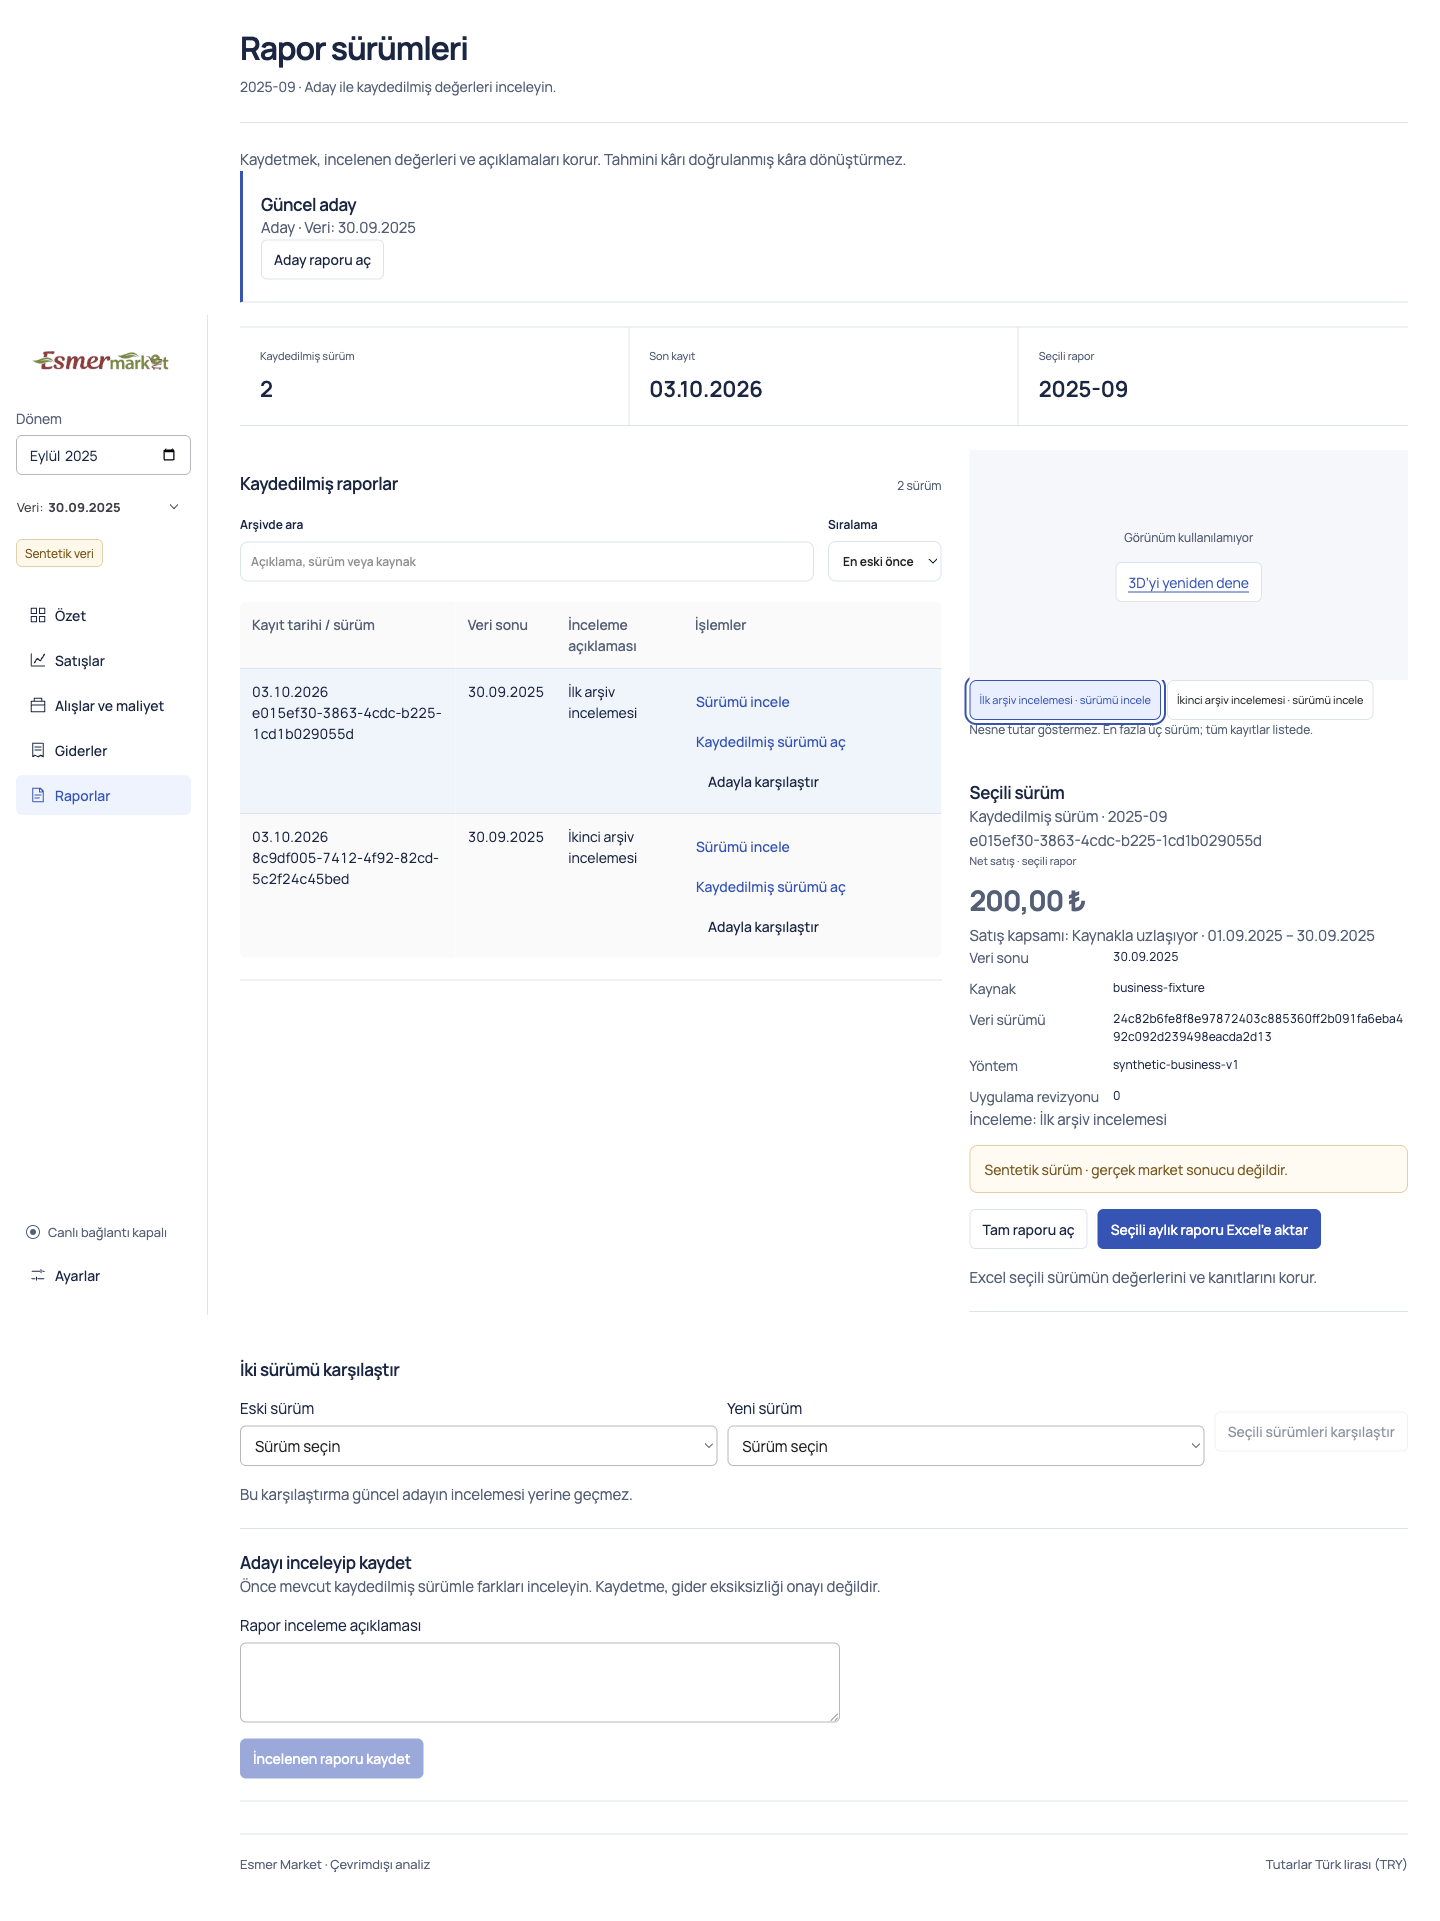
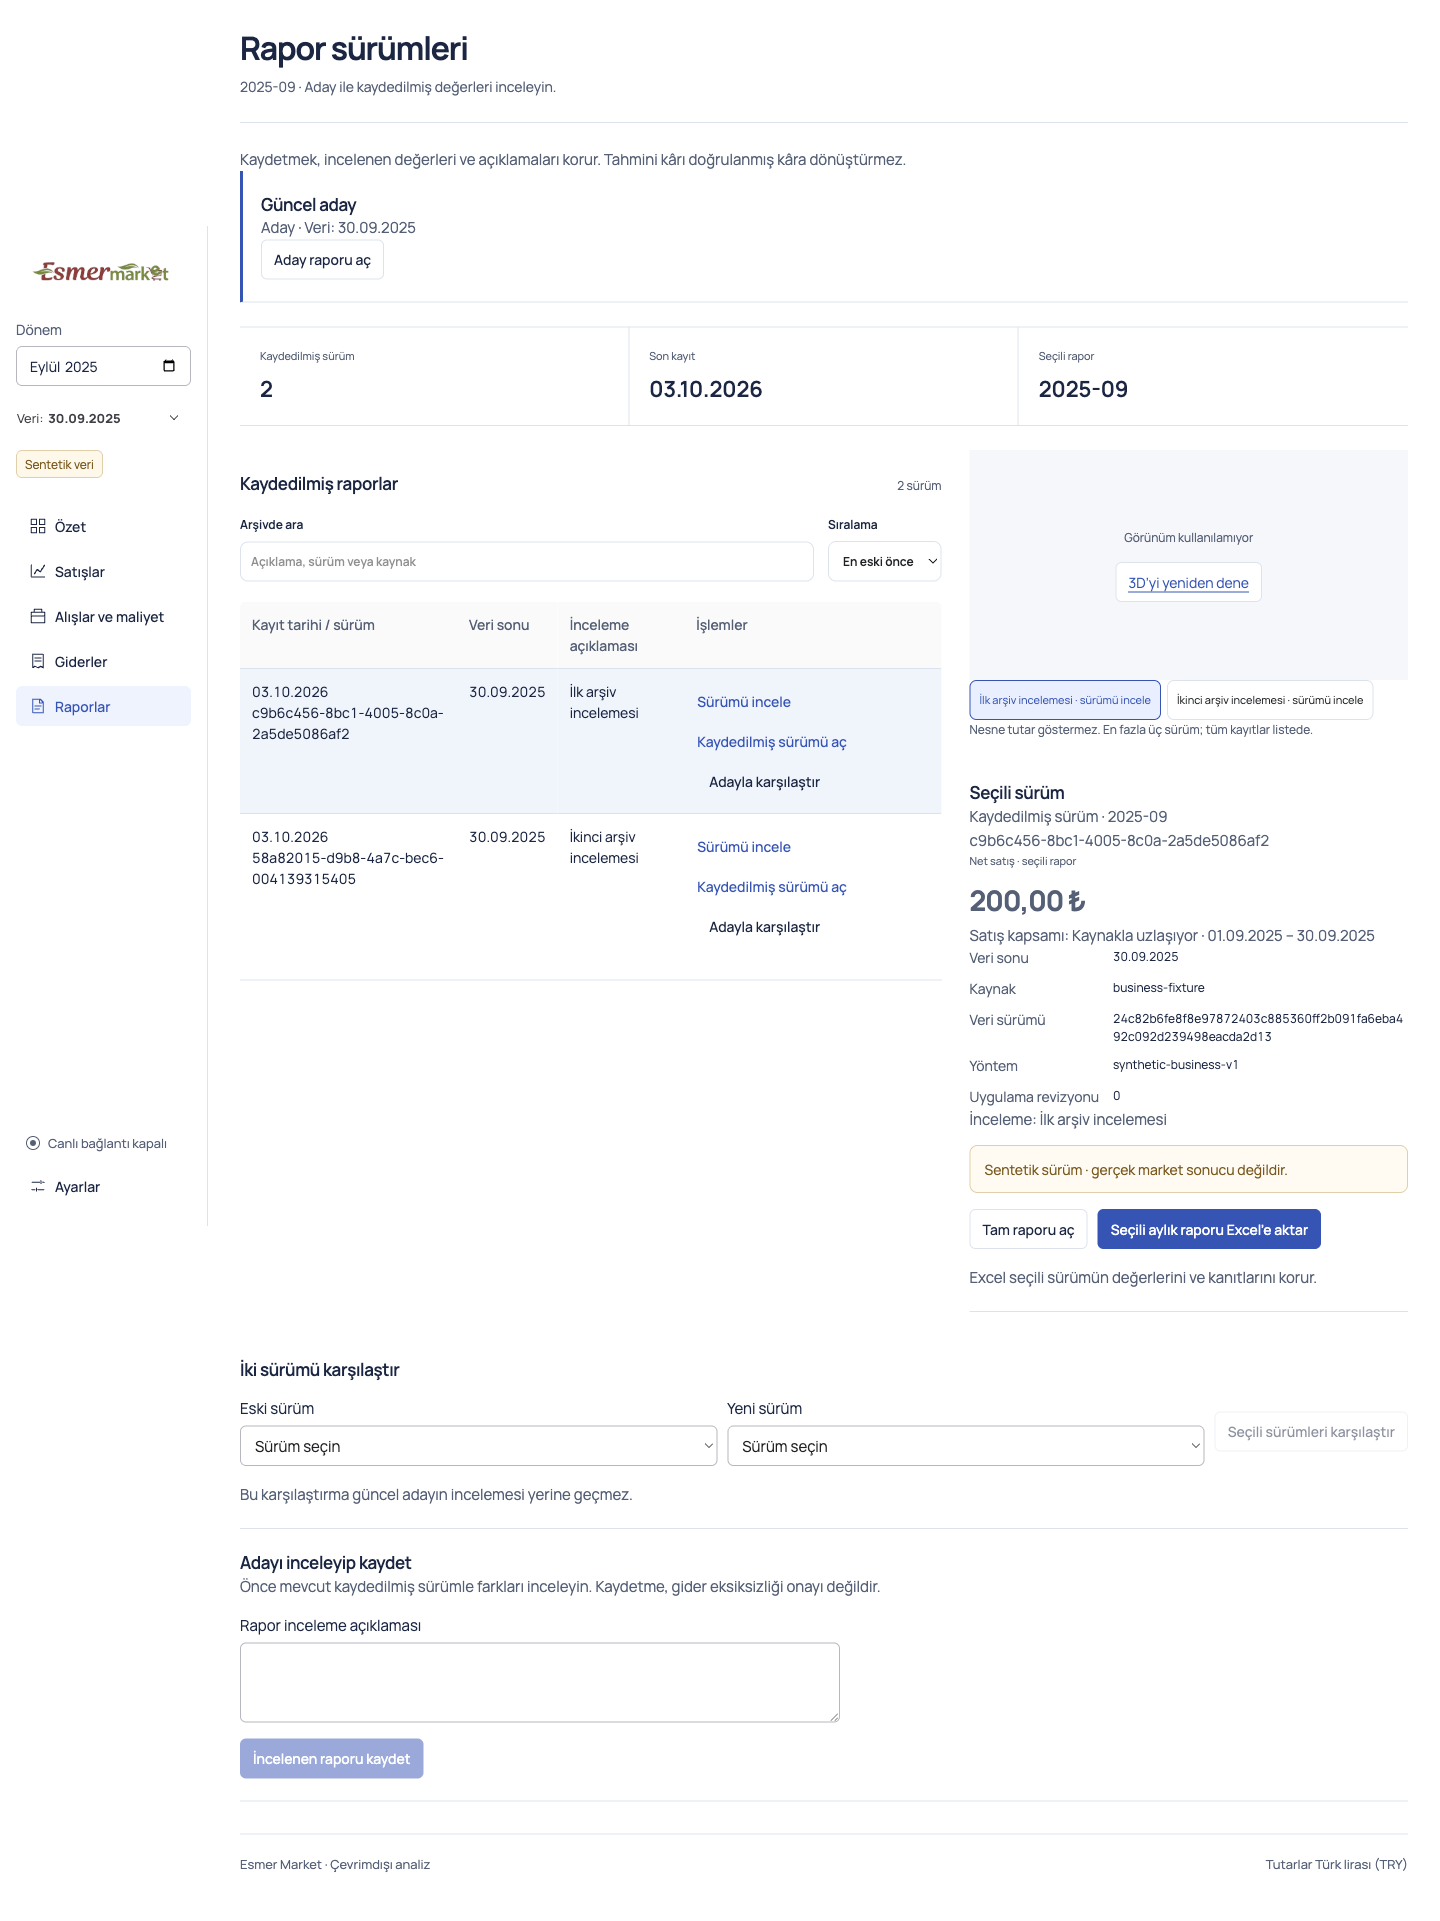
test(reports): capture renderer recovery from page top

diff --git a/tests/desktop/reports-control-desk.test.ts b/tests/desktop/reports-control-desk.test.ts
@@ -24,7 +24,7 @@ for(const mode of ['financial', 'source'] as const) test(`archive ${mode}: immut
     await page.getByLabel('Arşivde ara').fill('bulunmayan'); await expect(page.getByText('Aramanıza uyan sürüm yok.')).toBeVisible(); await expect(inspector).toContainText(firstId); await page.getByLabel('Arşivde ara').fill(''); await page.getByLabel('Sıralama', { exact: true }).selectOption('oldest');
     await page.getByRole('button', { name: 'İkinci arşiv incelemesi · sürümü incele', exact: true }).press('Enter'); await expect(inspector).toContainText(secondId); const canvas = page.locator('.report-archive-scene canvas'); await expect(canvas).toBeVisible(); await canvas.scrollIntoViewIfNeeded(); const box = await canvas.boundingBox(); if(!box) throw Error('Missing archive bounds'); await page.mouse.click(box.x + box.width / 2 - 42, box.y + box.height / 2 - 48); await expect(inspector).toContainText(firstId);
     await page.emulateMedia({ reducedMotion: 'reduce' }); await page.getByRole('button', { name: 'İkinci arşiv incelemesi · sürümü incele', exact: true }).press('Enter'); await expect(inspector).toContainText(secondId); await page.emulateMedia({ reducedMotion: 'no-preference' }); await page.waitForTimeout(250); const draws = await page.evaluate(() => ({ ...((window as unknown as { archiveDraws: { calls: number; triangles: number } }).archiveDraws) })); await page.waitForTimeout(350); expect(await page.evaluate(() => (window as unknown as { archiveDraws: { calls: number } }).archiveDraws.calls)).toBe(draws.calls);
-    await page.evaluate(() => document.fonts.ready); for(const width of [1440, 390]) { await page.setViewportSize({ width, height: 1000 }); await page.evaluate(() => { window.scrollTo(0, 0); return new Promise<void>(resolve => requestAnimationFrame(() => requestAnimationFrame(() => resolve()))); }); expect(await page.evaluate(() => document.documentElement.scrollWidth <= innerWidth)).toBe(true); await expect(canvas).toBeVisible(); await page.screenshot({ path: `${captureDir}/${mode}-${width}.png`, fullPage: true }); } const table = page.getByRole("region", { name: "Rapor arşivi tablosu", exact: true }); await table.focus(); await expect(table).toBeFocused(); await table.press("End"); await page.setViewportSize({ width: 1440, height: 1000 }); await canvas.evaluate(node => { const gl = (node as HTMLCanvasElement).getContext('webgl2'); const extension = gl?.getExtension('WEBGL_lose_context'); if(!extension) throw Error('Context loss extension missing'); extension.loseContext(); }); await expect(page.getByText('Görünüm kullanılamıyor', { exact: true })).toBeVisible(); await expect(inspector).toContainText(secondId); await first.press('Enter'); await expect(inspector).toContainText(firstId); await page.screenshot({ path: `${captureDir}/${mode}-context-loss.png`, fullPage: true }); await page.getByRole('button', { name: '3D’yi yeniden dene', exact: true }).click(); await expect(canvas).toBeVisible(); await expect(first).toHaveAttribute('aria-pressed', 'true'); await page.waitForTimeout(250); await page.evaluate(() => { const counters = (window as unknown as { archiveDraws: { calls: number; triangles: number } }).archiveDraws; counters.calls = 0; counters.triangles = 0; }); await page.setViewportSize({ width: 1439, height: 1000 }); await page.waitForTimeout(100); const render = await page.evaluate(() => ({ ...((window as unknown as { archiveDraws: { calls: number; triangles: number } }).archiveDraws) })); expect(render.calls).toBeGreaterThan(0); expect(render.calls).toBeLessThanOrEqual(24); expect(render.triangles).toBeLessThanOrEqual(4000); await writeFile(`${captureDir}/${mode}-renderer.json`, JSON.stringify({ render, idleDrawCalls: 0 }, null, 2)); if(mode === 'source') { await expect(page.getByRole('main')).toHaveCount(1); await expect(page.getByRole('button', { name: 'İncelenen raporu kaydet', exact: true })).toHaveCount(0); }
+    await page.evaluate(() => document.fonts.ready); for(const width of [1440, 390]) { await page.setViewportSize({ width, height: 1000 }); await page.evaluate(() => { window.scrollTo(0, 0); return new Promise<void>(resolve => requestAnimationFrame(() => requestAnimationFrame(() => resolve()))); }); expect(await page.evaluate(() => document.documentElement.scrollWidth <= innerWidth)).toBe(true); await expect(canvas).toBeVisible(); await page.screenshot({ path: `${captureDir}/${mode}-${width}.png`, fullPage: true }); } const table = page.getByRole("region", { name: "Rapor arşivi tablosu", exact: true }); await table.focus(); await expect(table).toBeFocused(); await table.press("End"); await page.setViewportSize({ width: 1440, height: 1000 }); await canvas.evaluate(node => { const gl = (node as HTMLCanvasElement).getContext('webgl2'); const extension = gl?.getExtension('WEBGL_lose_context'); if(!extension) throw Error('Context loss extension missing'); extension.loseContext(); }); await expect(page.getByText('Görünüm kullanılamıyor', { exact: true })).toBeVisible(); await expect(inspector).toContainText(secondId); await first.press('Enter'); await expect(inspector).toContainText(firstId); await page.evaluate(async () => { window.scrollTo(0, 0); await new Promise(requestAnimationFrame); await new Promise(requestAnimationFrame); }); await page.screenshot({ path: `${captureDir}/${mode}-context-loss.png`, fullPage: true }); await page.getByRole('button', { name: '3D’yi yeniden dene', exact: true }).click(); await expect(canvas).toBeVisible(); await expect(first).toHaveAttribute('aria-pressed', 'true'); await page.waitForTimeout(250); await page.evaluate(() => { const counters = (window as unknown as { archiveDraws: { calls: number; triangles: number } }).archiveDraws; counters.calls = 0; counters.triangles = 0; }); await page.setViewportSize({ width: 1439, height: 1000 }); await page.waitForTimeout(100); const render = await page.evaluate(() => ({ ...((window as unknown as { archiveDraws: { calls: number; triangles: number } }).archiveDraws) })); expect(render.calls).toBeGreaterThan(0); expect(render.calls).toBeLessThanOrEqual(24); expect(render.triangles).toBeLessThanOrEqual(4000); await writeFile(`${captureDir}/${mode}-renderer.json`, JSON.stringify({ render, idleDrawCalls: 0 }, null, 2)); if(mode === 'source') { await expect(page.getByRole('main')).toHaveCount(1); await expect(page.getByRole('button', { name: 'İncelenen raporu kaydet', exact: true })).toHaveCount(0); }
   } finally { await app.close(); await rm(userData, { recursive: true, force: true }); }
 });
 test('archive remains usable without WebGL', async ({ }, testInfo) => { const { userData, firstId } = await fixture(false); const captureDir = process.env.ESMER_CAPTURE_EVIDENCE ? 'workstreams/page-control-desks/reports' : testInfo.outputPath('screenshots'); await mkdir(captureDir, { recursive: true }); const app = await electron.launch({ executablePath, args: [`--user-data-dir=${userData}`] }); try { const page = await app.firstWindow(); await page.addInitScript(() => { const original = HTMLCanvasElement.prototype.getContext; Object.defineProperty(HTMLCanvasElement.prototype, 'getContext', { value: function(type: string, ...args: unknown[]) { return type.startsWith('webgl') ? null : Reflect.apply(original, this, [type, ...args]); } }); }); await page.reload(); await page.getByRole('button', { name: 'Raporlar', exact: true }).click(); await expect(page.getByText('Görünüm kullanılamıyor', { exact: true })).toBeVisible(); await page.getByRole('button', { name: 'İlk arşiv incelemesi · sürümü incele', exact: true }).press('Enter'); await expect(page.getByRole('region', { name: 'Seçili sürüm inceleyicisi' })).toContainText(firstId); await page.getByRole('button', { name: '3D’yi yeniden dene', exact: true }).click(); await expect(page.getByText('Görünüm kullanılamıyor', { exact: true })).toBeVisible(); await page.screenshot({ path: `${captureDir}/unavailable.png`, fullPage: true }); } finally { await app.close(); await rm(userData, { recursive: true, force: true }); } });
